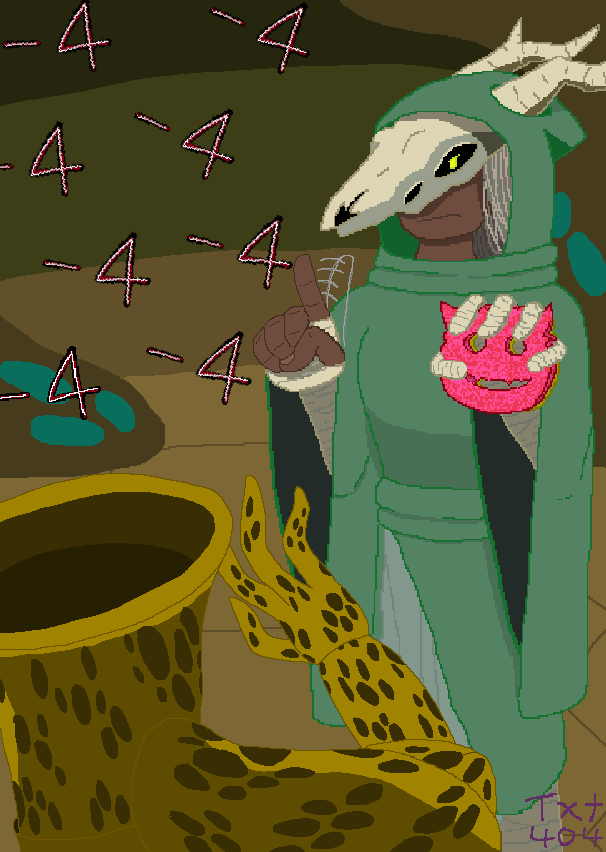
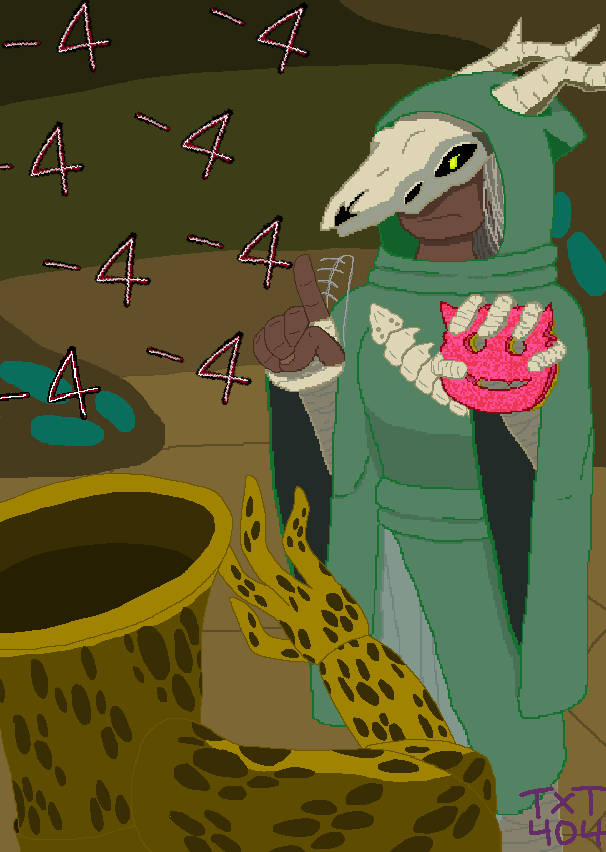
Add 2 alt arts

diff --git a/HideDetailsModCode/AlternateArts.cs b/HideDetailsModCode/AlternateArts.cs
@@ -14,9 +14,12 @@ public class AlternateArts
     private static readonly CardImg PredatorGoldAxe = new("predator_gold_axe");
     private static readonly CardImg Shiv2 = new("shiv_2");
     private static readonly CardImg PoisonlessAccelerant = new("poisonless_accelerant");
+    private static readonly CardImg NoxiousFumesIfOutbreak = new("noxious_fumes_outbreak");
+    private static readonly CardImg AbrasivePlus = new("abrasive_plus");
 
     public static Dictionary<Type, (List<CardImg?> cardImgs, Func<CardModel, CardImg?> factory)> Cards { get; } = new()
     {
+        [typeof(Shiv)] = ([Shiv2], _ => MyModConfig.UseBetaShivArt ? Shiv2 : null),
         [typeof(Predator)] = ([PredatorGoldAxe], card =>
                 {
                     if (card.IsCanonical) return null;
@@ -28,7 +31,6 @@ public class AlternateArts
                     return null;
                 }
             ),
-        [typeof(Shiv)] = ([Shiv2], _ => MyModConfig.UseBetaShivArt ? Shiv2 : null),
         [typeof(Accelerant)] = ([PoisonlessAccelerant], card =>
         {
             if (card.IsCanonical) return null;
@@ -36,7 +38,7 @@ public class AlternateArts
             if (me == null) return null;
 
             var AnyCardInDeckWithPoison =
-                me.Piles.Any(pile => pile.Cards.Any(Card => Card.DynamicVars.ContainsKey("PoisonPower")));
+                CardInDeck(me, Card => Card.DynamicVars.ContainsKey("PoisonPower"));
 
 
             var HasPoisonRelic = me.Relics.Any(Relic =>
@@ -46,7 +48,25 @@ public class AlternateArts
 
             return !HasPoison ? PoisonlessAccelerant : null;
         }),
+        [typeof(NoxiousFumes)] = ([NoxiousFumesIfOutbreak], card =>
+                {
+                    if (card.IsCanonical) return null;
+                    var me = GetOwner(card);
+                    if (me == null) return null;
+
+                    var DeckHasOutbreak = CardInDeck<Outbreak>(me);
+
+                    return DeckHasOutbreak ? NoxiousFumesIfOutbreak : null;
+                }
+            ),
+        [typeof(Abrasive)] = ([AbrasivePlus], card => card.IsUpgraded ? AbrasivePlus : null),
     };
+
+    static bool CardInDeck<T>(Player owner) where T : CardModel => CardInDeck(owner, card => card is T);
+
+    static bool CardInDeck(Player owner, Func<CardModel, bool> predicate) =>
+        owner.Piles.Any(pile => pile.Cards.Any(predicate));
+
 
     public class CardImg(string path)
     {